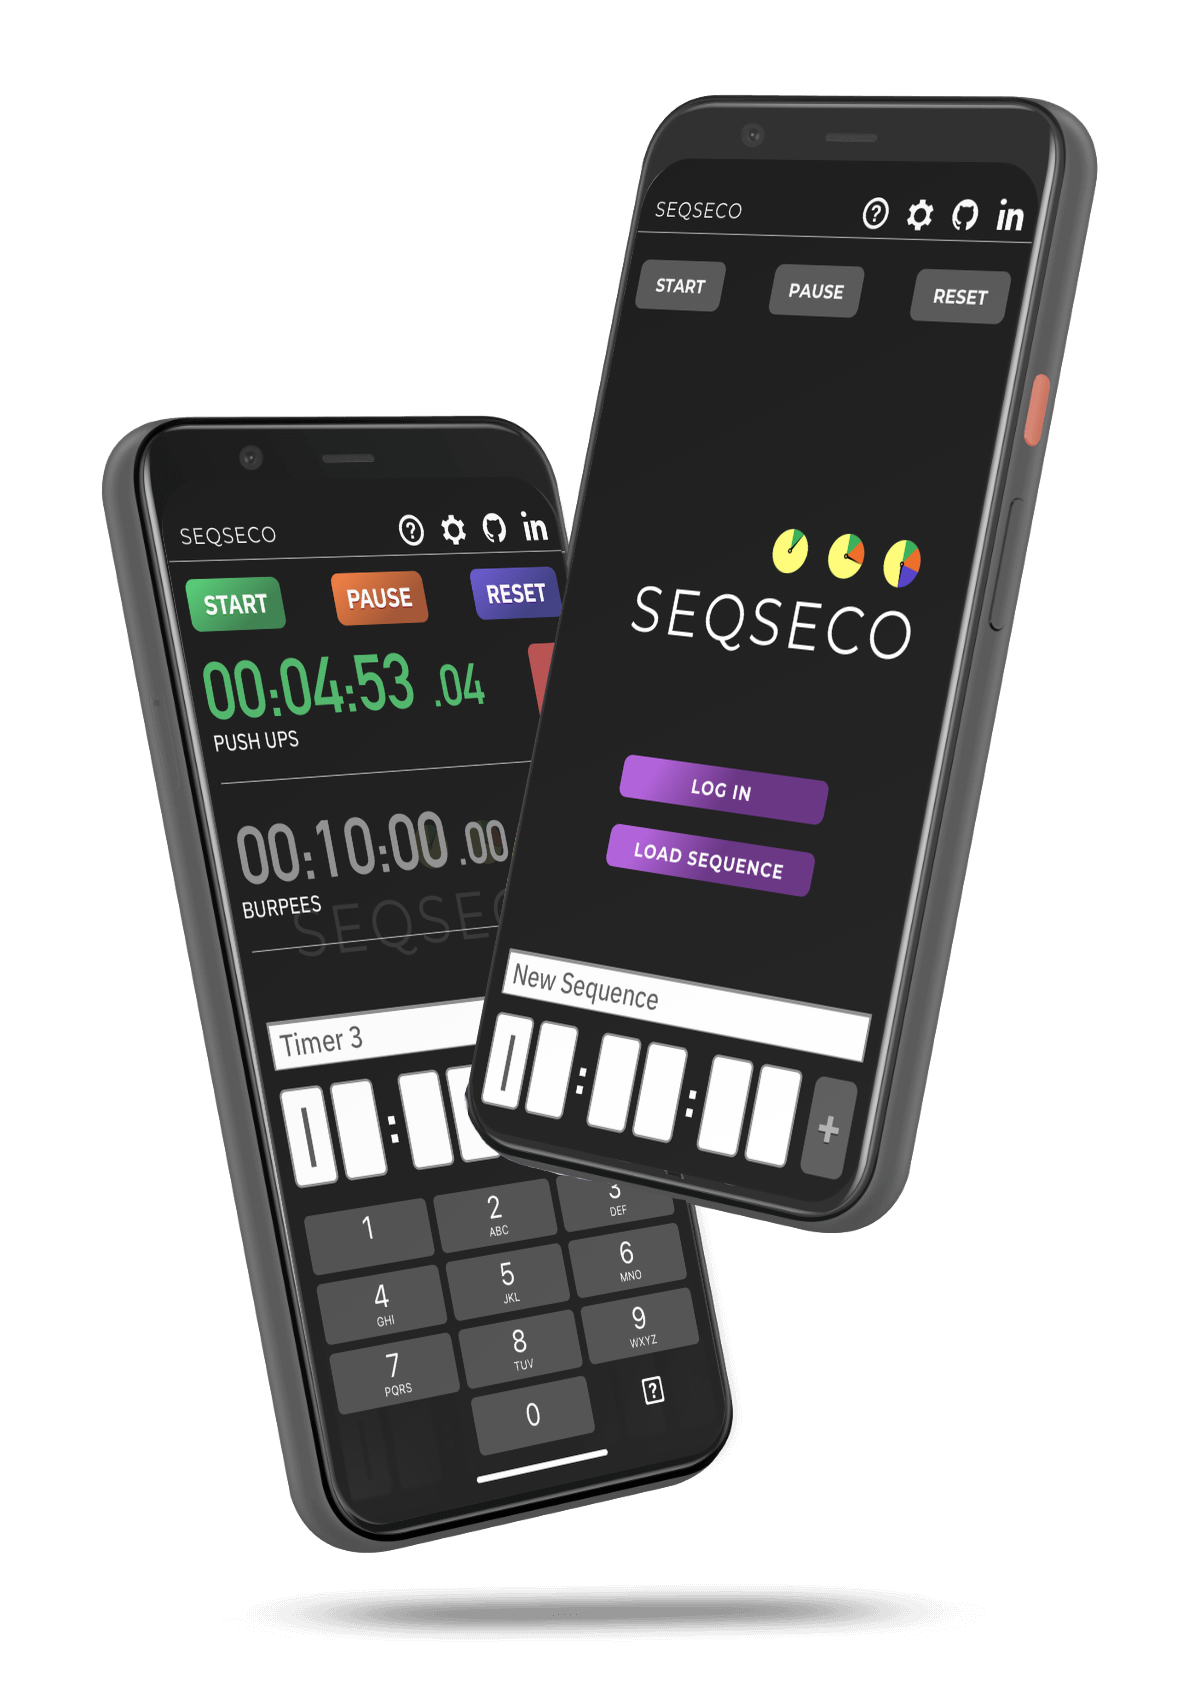
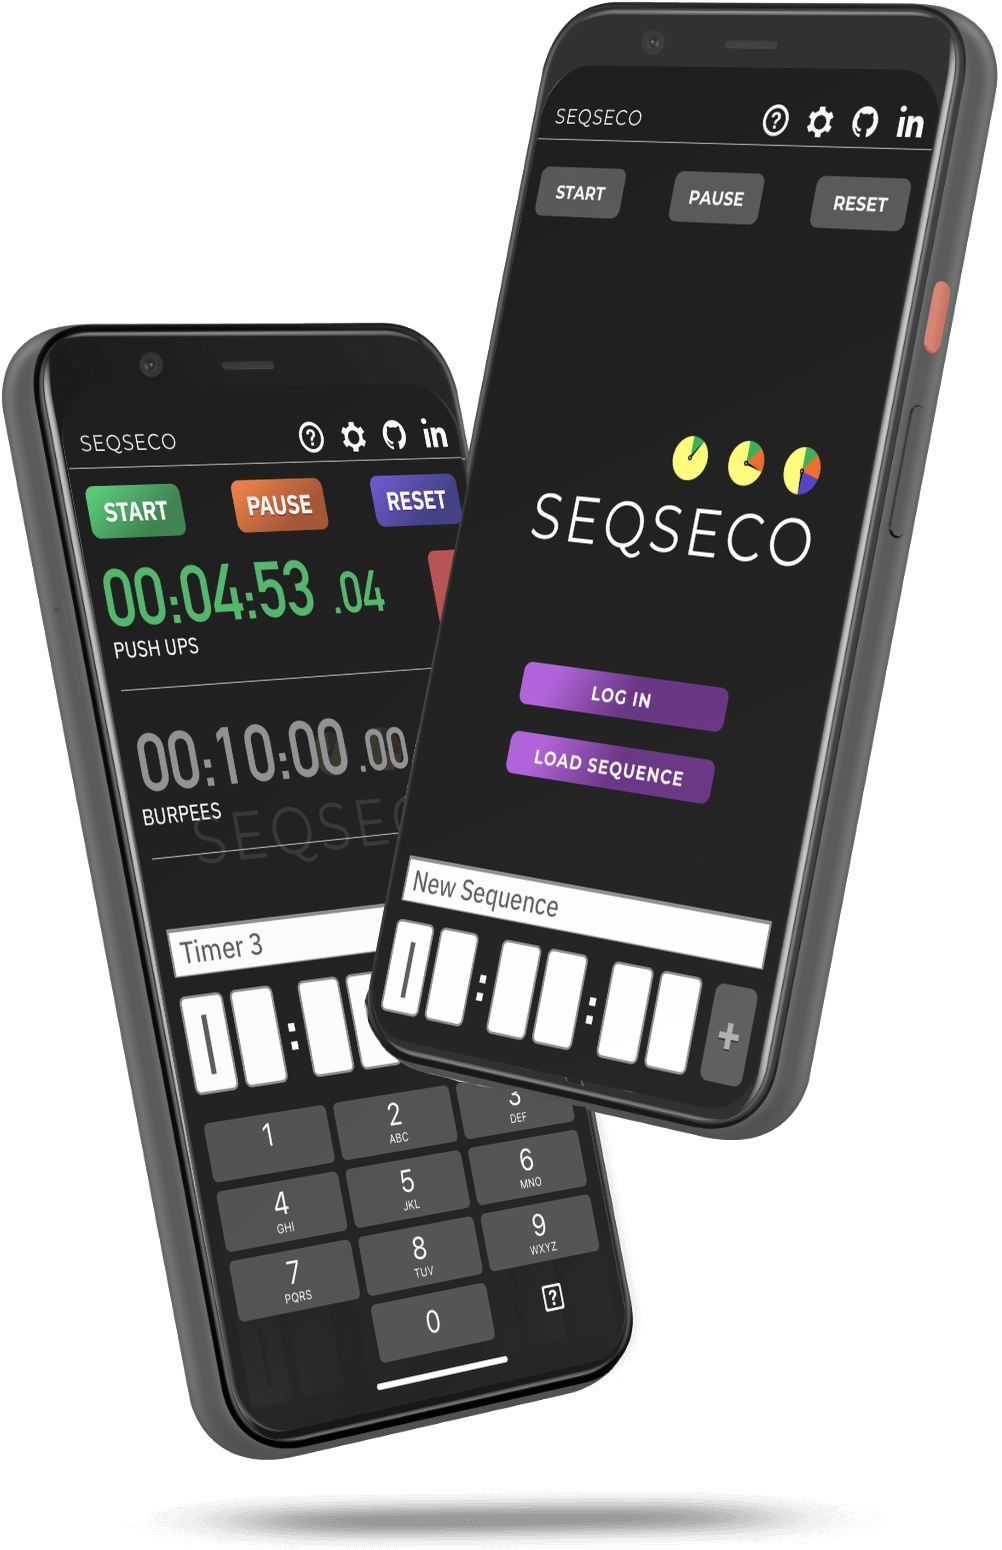
New product image and home page grid and repaired footer.

diff --git a/src/routes/contact/+page.svelte b/src/routes/contact/+page.svelte
@@ -1,0 +1,27 @@
+<!-- contact/+page.svelte -->
+<h1>Contact</h1>
+
+<p>reach out and say Hi.</p>
+
+<form>
+	<!-- Grid -->
+	<div class="grid">
+		<!-- Markup example 1: input is inside label -->
+		<label for="firstname">
+			First name
+			<input type="text" id="firstname" name="firstname" placeholder="First name" required />
+		</label>
+
+		<label for="lastname">
+			Last name
+			<input type="text" id="lastname" name="lastname" placeholder="Last name" required />
+		</label>
+	</div>
+	<!-- Markup example 2: input is after label -->
+	<label for="email">Email address</label>
+	<input type="email" id="email" name="email" placeholder="Email address" required />
+	<small>We'll never share your email with anyone else.</small>
+
+	<!-- Button -->
+	<button type="submit">Submit</button>
+</form>

diff --git a/src/routes/+page.svelte b/src/routes/+page.svelte
@@ -10,26 +10,3 @@
 	height="1697"
 	alt="Project Seqseco on iphone"
 />
-
-<form>
-	<!-- Grid -->
-	<div class="grid">
-		<!-- Markup example 1: input is inside label -->
-		<label for="firstname">
-			First name
-			<input type="text" id="firstname" name="firstname" placeholder="First name" required />
-		</label>
-
-		<label for="lastname">
-			Last name
-			<input type="text" id="lastname" name="lastname" placeholder="Last name" required />
-		</label>
-	</div>
-	<!-- Markup example 2: input is after label -->
-	<label for="email">Email address</label>
-	<input type="email" id="email" name="email" placeholder="Email address" required />
-	<small>We'll never share your email with anyone else.</small>
-
-	<!-- Button -->
-	<button type="submit">Submit</button>
-</form>

diff --git a/src/lib/components/Footer.svelte b/src/lib/components/Footer.svelte
@@ -5,10 +5,14 @@
 
 <style lang="scss">
 	footer {
-		position: absolute;
-		bottom: 0;
 		color: white;
 		padding: 1em;
 		text-align: center;
+	}
+	a:link,
+	a:visited,
+	a:active {
+		text-decoration: underline;
+		color: rgb(219, 157, 255);
 	}
 </style>

diff --git a/src/routes/+layout.svelte b/src/routes/+layout.svelte
@@ -16,8 +16,9 @@
 
 <style lang="scss">
 	main {
-		position: absolute;
-		right: 2em;
-		width: 90vw;
+		display: grid;
+		grid-template-columns: 1fr 1fr;
+		grid-template-rows: 1fr 1fr;
+		border: 1px solid red;
 	}
 </style>
